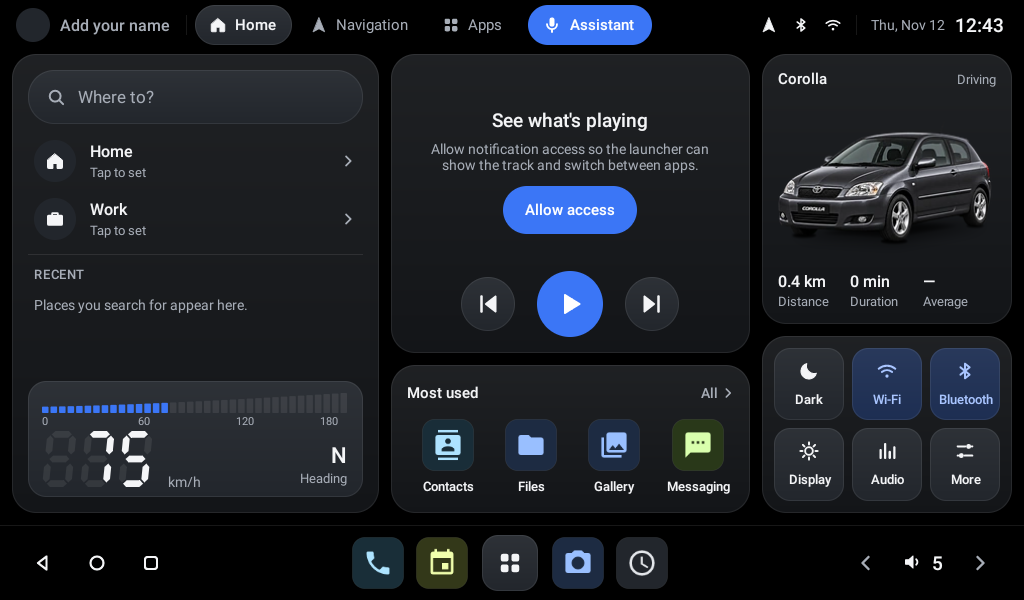
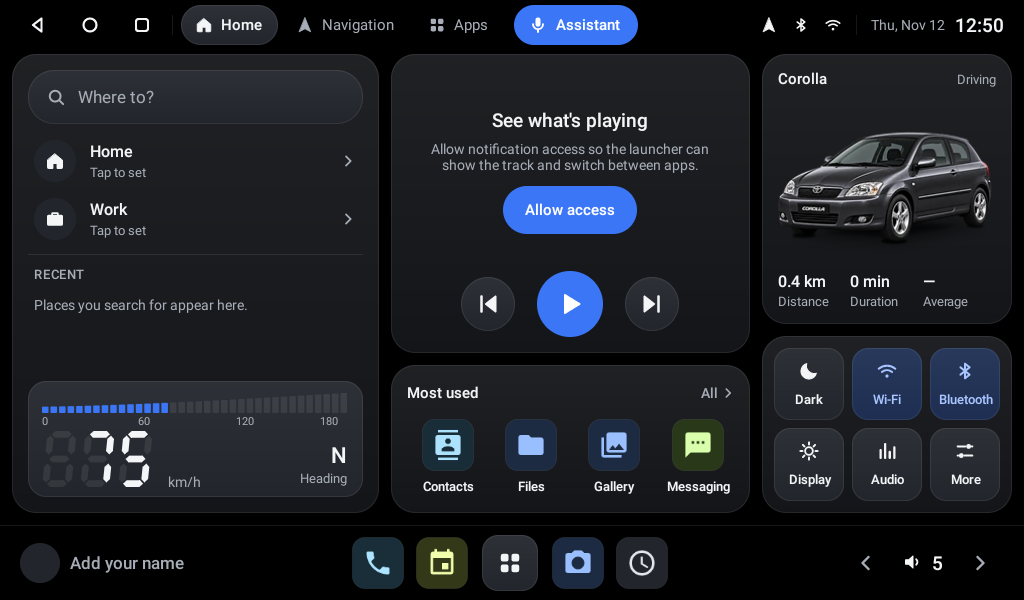
Move system keys to the top bar and the name to the bottom bar
The owner wants the Back, Home and Recents keys in the top left corner
and their name in the bottom left. The keys take the full 50dp height of
the top bar; the name gets a larger avatar in a 56dp target.

The bottom bar is now three independent groups (name, centred docked
apps, volume), so a long name can no longer push the docked apps off
the centre of the screen.

Changed region(s): [[0.0, 0.0, 0.6562, 0.09], [0.0, 0.9, 0.1875, 0.99], [0.9375, 0.03, 1.0, 0.06]]

diff --git a/README.md b/README.md
@@ -14,8 +14,8 @@ it should run on any landscape Android head unit.
 ## What it does
 
 - **Dashboard home screen** made of cards, full screen, with the system bars hidden:
-  - **Top bar**: your name (configurable), tabs for Home, Navigation (opens the maps app) and
-    Apps, then GPS, Bluetooth and network status, date and time.
+  - **Top bar**: Back, Home and Recent apps keys on the left, tabs for Home, Navigation (opens
+    the maps app) and Apps, then GPS, Bluetooth and network status, date and time.
   - **Navigation card**: "Where to?" search, Home and Work, the last two places searched, and
     the current **speed and heading** from GPS, shown as a digital dash in the spirit of a
     late-90s roadster: a rising bar graph that turns amber past 130 km/h over big LCD digits.
@@ -29,8 +29,8 @@ it should run on any landscape Android head unit.
     launcher's own panels instead of system settings: Wi-Fi switch and nearby networks,
     Bluetooth switch and paired phones, brightness and theme, and volume per stream. Sliders are
     thick and flanked by large minus and plus buttons for use while driving.
-  - **Bottom bar**: Back, Home and Recent apps on the left, four docked apps around the All apps
-    button, volume on the right. The head unit's **Android Auto / CarPlay app** (Phone Link,
+  - **Bottom bar**: your name (configurable) on the left, four docked apps around the All apps
+    button, always centred, and volume on the right. The head unit's **Android Auto / CarPlay app** (Phone Link,
     ZLink, AutoLink, Carlinkit...) is found automatically and always comes first; long press it
     to remove it. "Apri Android Auto" works with the assistant too.
 - **Themed app icons** by default, like Android 13's: every app gets one glyph on a tonal tile
@@ -154,7 +154,7 @@ adb -e install -r app/build/outputs/apk/debug/app-debug.apk
 | --- | --- |
 | Set your name | Tap the name at the top left, or *Settings → Your name* |
 | Open an app | Tap its icon in the bottom bar, in **Most used** or in **All apps** |
-| See recent apps | Square key, bottom left (needs the accessibility service, see above) |
+| See recent apps | Square key, top left (needs the accessibility service, see above) |
 | Show the system bars | Swipe in from the top or bottom edge; they hide again by themselves |
 | Pin or unpin a bottom bar app | Long press the icon |
 | Turn on speed and trip | Tap the speed or car card and allow location |
@@ -244,7 +244,7 @@ app/src/main/java/.../corollalauncher/
   assistant/              voice assistant: speech, text-to-speech, prompt, tool loop, actions
   assistant/tools/        weather, places, location and action tools
   assistant/ai/           AI providers and the HTTP client (ported from Monetine)
-  keys/                   accessibility service behind the dock's system keys
+  keys/                   accessibility service behind the top bar's system keys
   nav/                    navigation intents, recent destinations
   settings/               preferences, languages, settings screen
   theme/                  light/dark handling

diff --git a/docs/design.md b/docs/design.md
@@ -42,12 +42,12 @@ than break. The mockup lives in the design canvas linked above ("Dashboard" artb
 The launcher is **full screen**: the system status and navigation bars are hidden while it is
 in front, and replaced by the top and bottom bars above.
 
-- **Top bar**: the driver's initial and name (tap to edit; "Add your name" when unset), tabs,
+- **Top bar**: system keys drawn as outlines so they read as controls and not as apps, tabs,
   then the status icons. An icon dims to 28 % when its radio is off instead of disappearing,
   so the bar never shifts.
-- **Bottom bar**: system keys drawn as outlines so they read as controls and not as apps; four
+- **Bottom bar**: the driver's initial and name (tap to edit; "Add your name" when unset); four
   docked apps that only change when the driver pins or unpins (stable for muscle memory),
-  around the All apps button; volume.
+  around the All apps button and centred on the screen whatever the name's length; volume.
 - **Most used** is the moving part: by launch count, never repeating a docked app.
 - Values not available yet show an em dash, never a fake zero.
 
@@ -88,7 +88,8 @@ System Roboto. Clock in `sans-serif-light`, titles and buttons in `sans-serif-me
 ## Shapes and sizes
 
 - Cards 24dp radius; tiles 16dp; speed panel 18dp; pills fully rounded; settings rows 18dp.
-- Play button 66dp, previous/next 54dp, system keys 54x56dp, docked apps 52dp, tabs 40dp tall
+- Play button 66dp, previous/next 54dp, system keys 52x50dp (the full height of the top bar),
+  driver avatar 40dp in a 56dp target, docked apps 52dp, tabs 40dp tall
   inside a 50dp bar (the tab row is information first; the whole bar is reachable but small).
 - Bottom bar app icons 52dp with 12dp gaps; Most used 52dp; app grid icons 72dp.
 - Themed icon tiles are rounded squares (24 % radius) with a hairline (`card_border`); the
